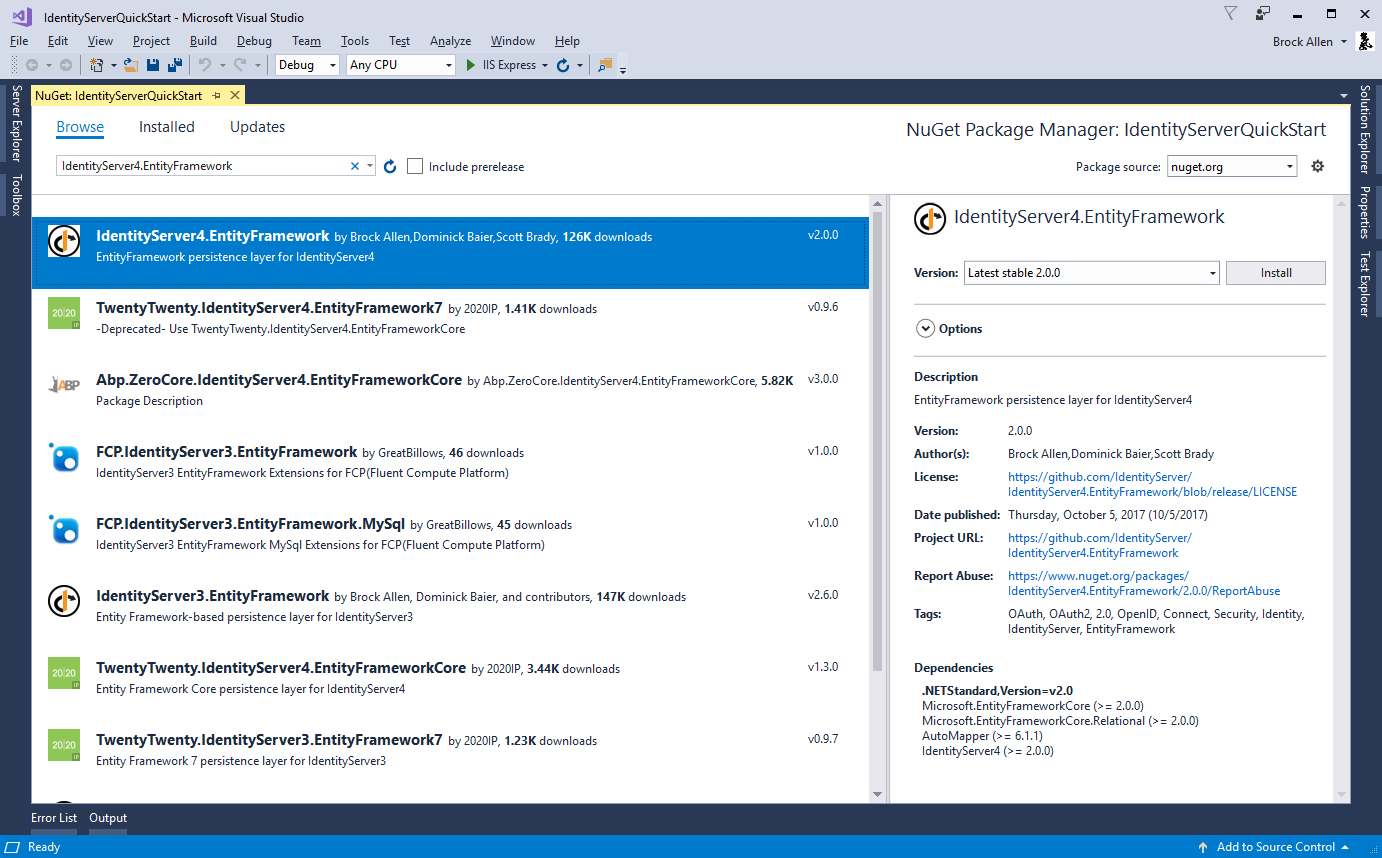
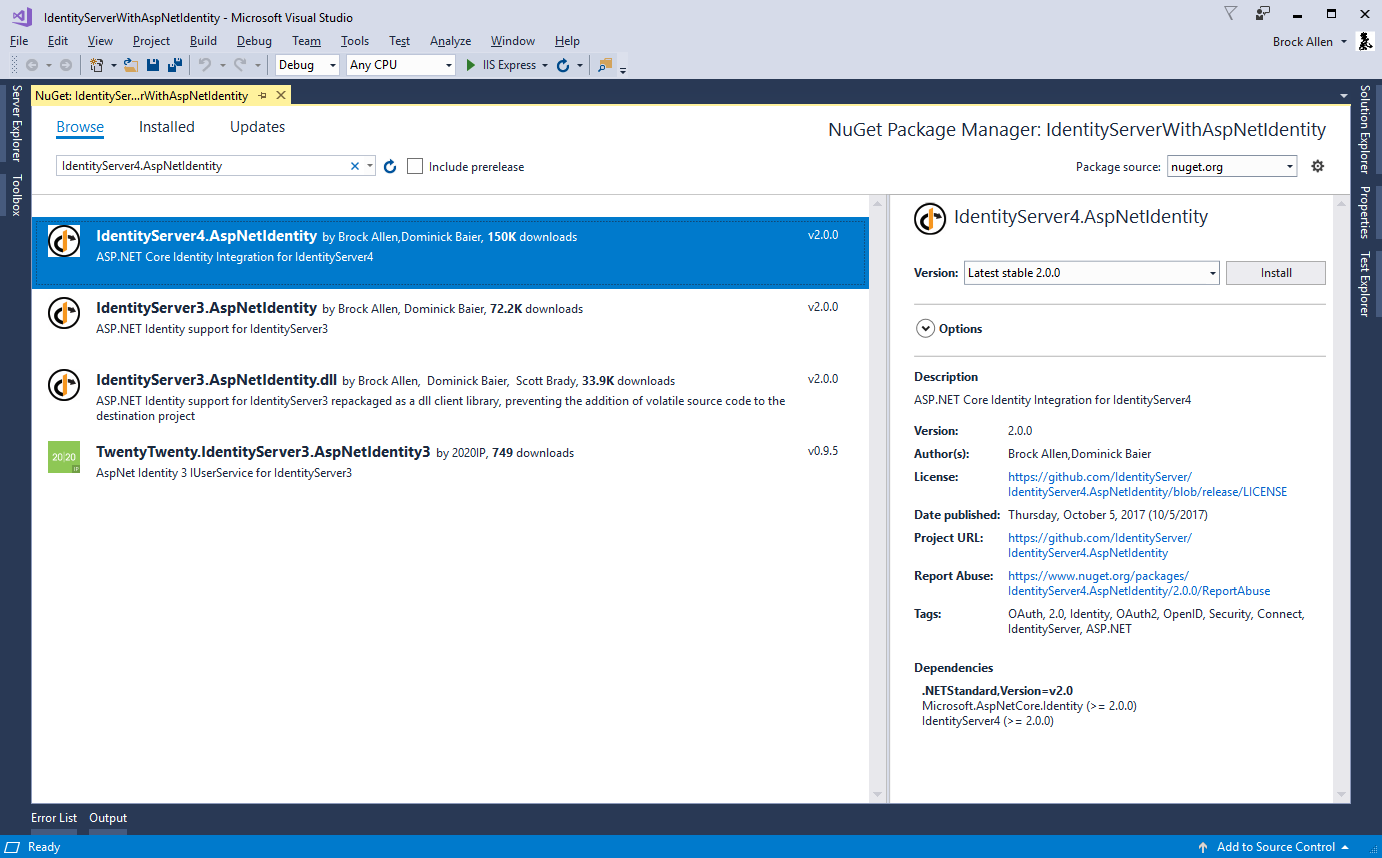
move images

diff --git a/docs/quickstarts/6_javascript_client.rst b/docs/quickstarts/6_javascript_client.rst
@@ -291,19 +291,19 @@ Run the JavaScript application
 
 Now you should be able to run the JavaScript client application:
 
-.. image:: images/7_not_logged_in.png
+.. image:: images/6_not_logged_in.png
 
 Click the "Login" button to sign the user in.
 Once the user is returned back to the JavaScript application, you should see their profile information:
  
-.. image:: images/7_logged_in.png
+.. image:: images/6_logged_in.png
 
 And click the "API" button to invoke the web API:
 
-.. image:: images/7_api_results.png
+.. image:: images/6_api_results.png
 
 And finally click "Logout" to sign the user out.
 
-.. image:: images/7_signed_out.png
+.. image:: images/6_signed_out.png
 
 You now have the start of a JavaScript client application that uses IdentityServer for sign-in, sign-out, and authenticating calls to web APIs.

diff --git a/docs/quickstarts/7_entity_framework.rst b/docs/quickstarts/7_entity_framework.rst
@@ -169,7 +169,7 @@ And then we can invoke this from the ``Configure`` method::
 Now if you run the IdentityServer project, the database should be created and seeded with the quickstart configuration data.
 You should be able to use SQL Server Management Studio or Visual Studio to connect and inspect the data.
 
-.. image:: images/8_database.png
+.. image:: images/7_database.png
 
 .. Note:: The above ``InitializeDatabase`` helper API is convenient to seed the database, but this approach is not ideal to leave in to execute each time the applicaion runs. Once your database is populated, consider removing the call to the API.
 